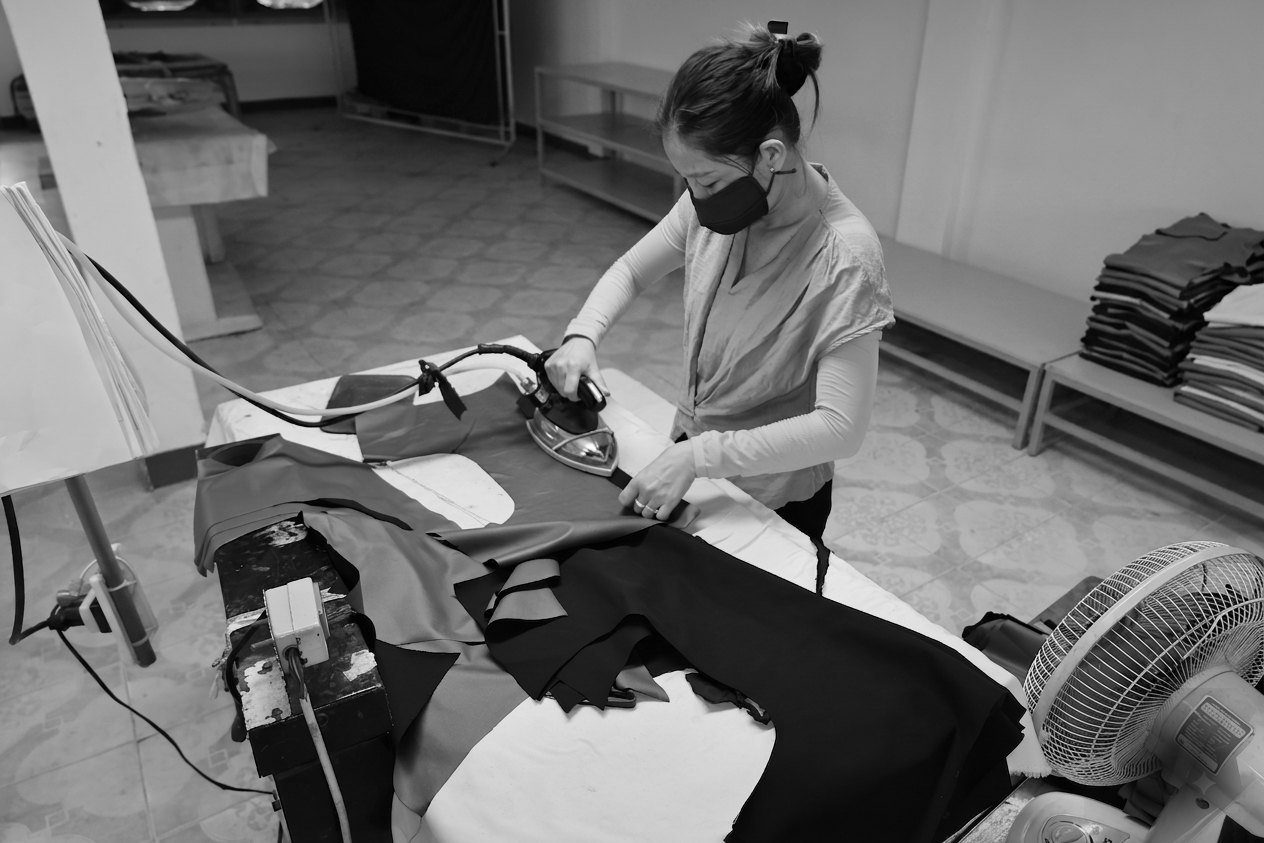
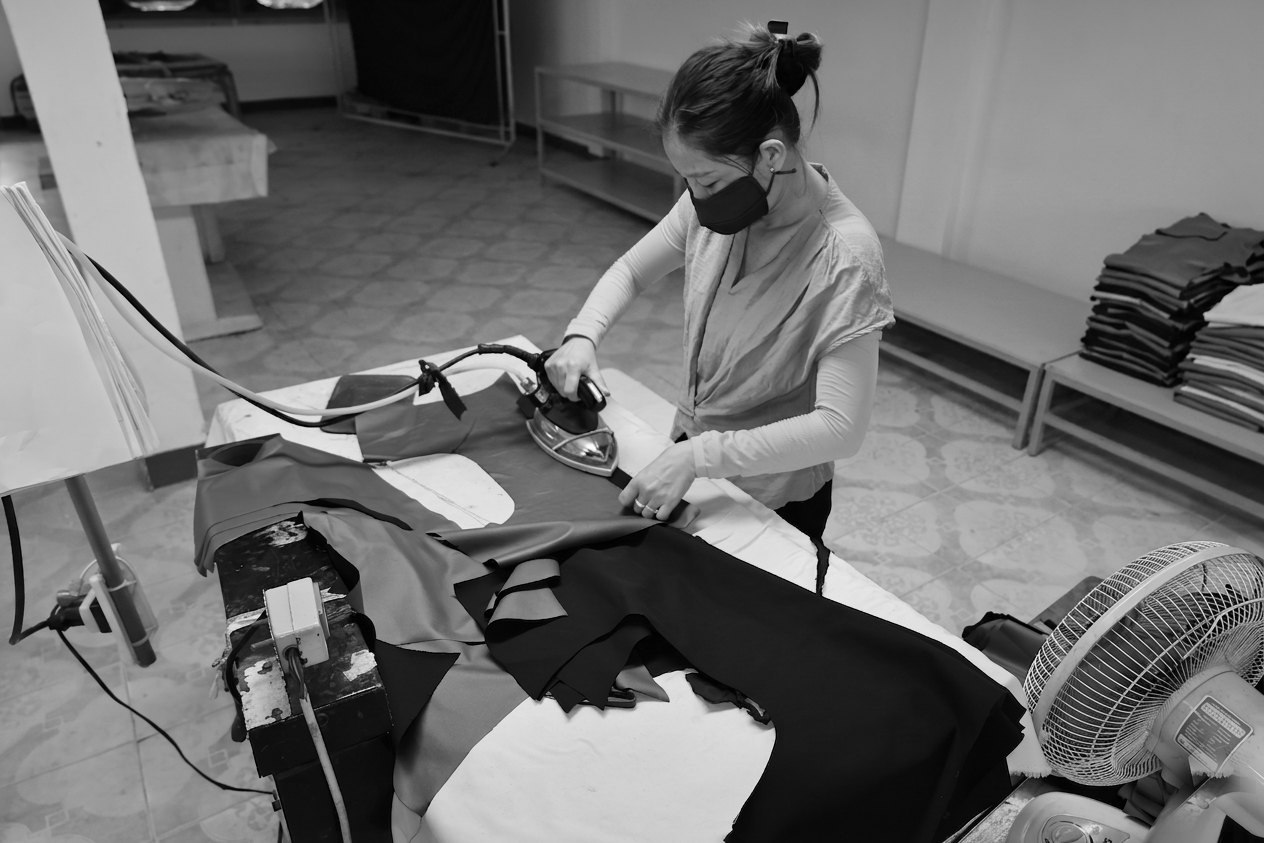
Xoá kỹ watermark ảnh là ủi (trên cây quạt); đổi 2 ảnh Hình ảnh nhà máy (Nhà xưởng->g11 toàn cảnh sạch, Kiểm tra->g12) để không trùng trang Giới thiệu; đồng bộ đen trắng

Changed region(s): [[0.8639, 0.8327, 0.9873, 0.987]]

diff --git a/public/profile.html b/public/profile.html
@@ -99,12 +99,12 @@
           <h2 data-en="Inside our facility">Bên trong nhà xưởng</h2>
         </div>
         <div class="cert-gallery cert-gallery--facility" data-reveal>
-          <figure class="cert-thumb"><img src="assets/img/gallery/g1.jpg" alt="Nhà xưởng sản xuất May Đông Thành" loading="lazy"><figcaption data-en="Production floor">Nhà xưởng sản xuất</figcaption></figure>
+          <figure class="cert-thumb"><img src="assets/img/gallery/g11.jpg" alt="Nhà xưởng sản xuất May Đông Thành" loading="lazy"><figcaption data-en="Production floor">Nhà xưởng sản xuất</figcaption></figure>
           <figure class="cert-thumb"><img src="assets/img/gallery/g9.jpg" alt="Nguyên liệu vải tại May Đông Thành" loading="lazy"><figcaption data-en="Fabric material">Nguyên liệu vải</figcaption></figure>
           <figure class="cert-thumb"><img src="assets/img/gallery/g3.jpg?v=4" alt="Trải và cắt vải tại May Đông Thành" loading="lazy"><figcaption data-en="Cutting">Trải &amp; cắt vải</figcaption></figure>
           <figure class="cert-thumb"><img src="assets/img/gallery/g10.jpg" alt="Bó bán thành phẩm tại May Đông Thành" loading="lazy"><figcaption data-en="Bundled cut parts">Bó bán thành phẩm</figcaption></figure>
           <figure class="cert-thumb"><img src="assets/img/gallery/g4.jpg?v=4" alt="Chuyền may tại May Đông Thành" loading="lazy"><figcaption data-en="Sewing line">Chuyền may</figcaption></figure>
-          <figure class="cert-thumb"><img src="assets/img/gallery/g6.jpg?v=4" alt="Kiểm tra chất lượng sản phẩm" loading="lazy"><figcaption data-en="Quality inspection">Kiểm tra chất lượng</figcaption></figure>
+          <figure class="cert-thumb"><img src="assets/img/gallery/g12.jpg" alt="Kiểm tra chất lượng sản phẩm" loading="lazy"><figcaption data-en="Quality inspection">Kiểm tra chất lượng</figcaption></figure>
         </div>
       </div>
     </section>

diff --git a/public/index.html b/public/index.html
@@ -232,7 +232,7 @@
           <figure class="cert-thumb"><img src="assets/img/gallery/g2.jpg?v=4" alt="Dây chuyền may" loading="lazy"><figcaption data-en="Sewing line">Dây chuyền may</figcaption></figure>
           <figure class="cert-thumb"><img src="assets/img/gallery/g3.jpg?v=4" alt="Trải và cắt vải" loading="lazy"><figcaption data-en="Fabric cutting">Trải &amp; cắt vải</figcaption></figure>
           <figure class="cert-thumb"><img src="assets/img/gallery/g4.jpg?v=4" alt="Công đoạn may" loading="lazy"><figcaption data-en="Sewing">Công đoạn may</figcaption></figure>
-          <figure class="cert-thumb"><img src="assets/img/gallery/g5.jpg?v=4" alt="Là ủi hoàn thiện" loading="lazy"><figcaption data-en="Pressing &amp; finishing">Là ủi hoàn thiện</figcaption></figure>
+          <figure class="cert-thumb"><img src="assets/img/gallery/g5.jpg?v=5" alt="Là ủi hoàn thiện" loading="lazy"><figcaption data-en="Pressing &amp; finishing">Là ủi hoàn thiện</figcaption></figure>
           <figure class="cert-thumb"><img src="assets/img/gallery/g6.jpg?v=4" alt="Kiểm tra và đóng gói" loading="lazy"><figcaption data-en="Inspection &amp; packing">Kiểm tra &amp; đóng gói</figcaption></figure>
           <figure class="cert-thumb"><img src="assets/img/gallery/g7.jpg?v=3" alt="Hoàn thiện sản phẩm" loading="lazy"><figcaption data-en="Finishing">Hoàn thiện sản phẩm</figcaption></figure>
           <figure class="cert-thumb"><img src="assets/img/gallery/g8.jpg?v=4" alt="Nhà ăn - bao cơm trưa" loading="lazy"><figcaption data-en="Canteen — free lunch">Nhà ăn – bao cơm trưa</figcaption></figure>
